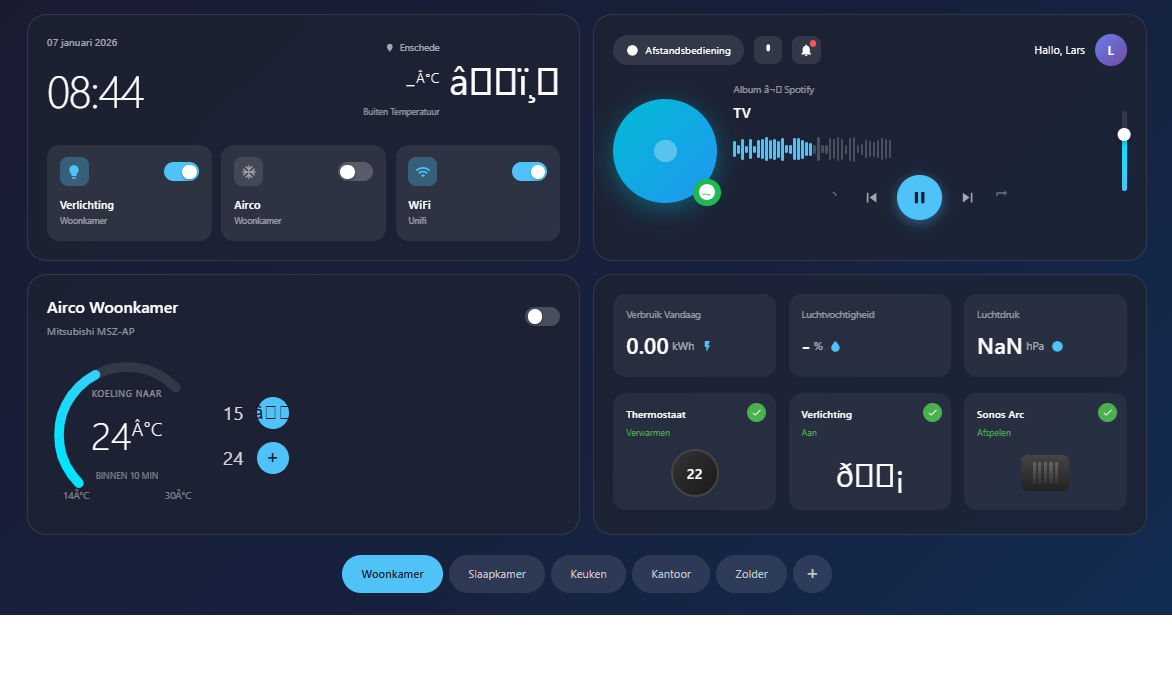
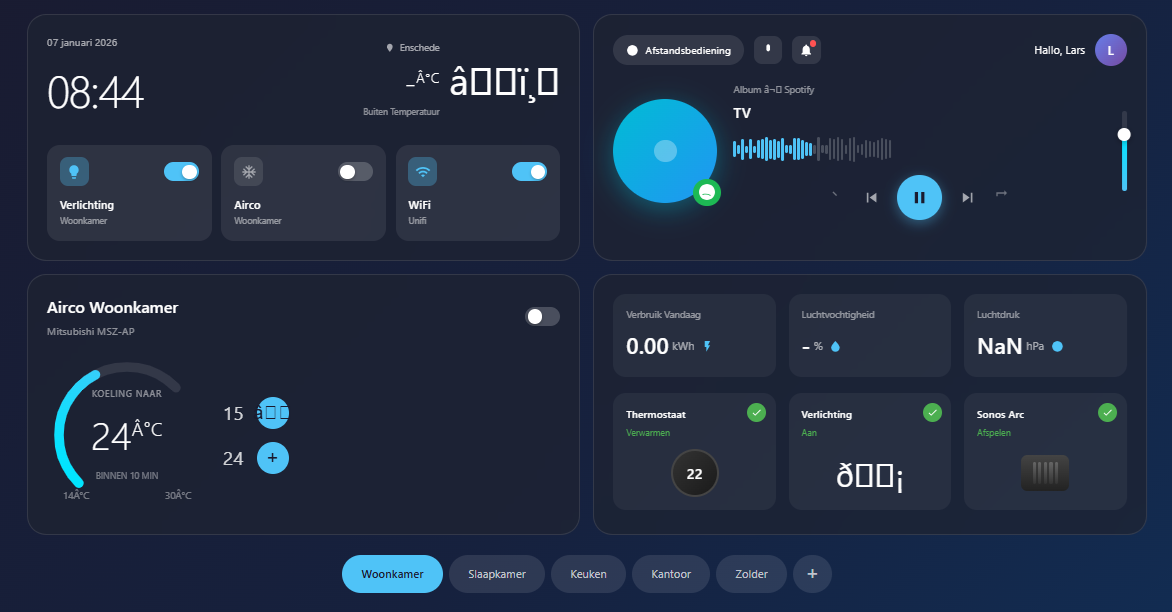
Verbeter tekstleesbaarheid: sterkere schaduwen en donkerdere achtergrond

diff --git a/dist/glassmorphism-dashboard.js b/dist/glassmorphism-dashboard.js
@@ -16,7 +16,7 @@
  * @license MIT
  */
 
-const CARD_VERSION = '1.0.1';
+const CARD_VERSION = '1.0.2';
 
 console.info(
   `%c GLASSMORPHISM-DASHBOARD %c v${CARD_VERSION} `,
@@ -818,7 +818,7 @@ class GlassmorphismDashboard extends HTMLElement {
         display: block;
         font-family: 'SF Pro Display', -apple-system, BlinkMacSystemFont, 'Segoe UI', Roboto, sans-serif;
         color: #fff;
-        --glass-bg: rgba(30, 35, 50, 0.75);
+        --glass-bg: rgba(20, 25, 40, 0.85);
         --glass-border: rgba(255, 255, 255, 0.1);
         --accent: #4FC3F7;
         --accent-glow: rgba(79, 195, 247, 0.4);
@@ -857,17 +857,17 @@ class GlassmorphismDashboard extends HTMLElement {
       
       .header-left .date-display {
         font-size: 13px;
-        color: rgba(255, 255, 255, 0.8);
+        color: rgba(255, 255, 255, 0.9);
         margin-bottom: 4px;
         text-transform: capitalize;
-        text-shadow: 0 1px 2px rgba(0, 0, 0, 0.3);
+        text-shadow: 0 2px 4px rgba(0, 0, 0, 0.7);
       }
       
       .header-left .time-display {
         font-size: 42px;
         font-weight: 200;
         letter-spacing: -1px;
-        text-shadow: 0 2px 4px rgba(0, 0, 0, 0.5);
+        text-shadow: 0 3px 6px rgba(0, 0, 0, 0.8);
       }
       
       .header-center {
@@ -878,7 +878,7 @@ class GlassmorphismDashboard extends HTMLElement {
         font-size: 28px;
         font-weight: 600;
         margin-bottom: 8px;
-        text-shadow: 0 2px 4px rgba(0, 0, 0, 0.5);
+        text-shadow: 0 3px 6px rgba(0, 0, 0, 0.8);
       }
       
       .room-stats {
@@ -892,11 +892,13 @@ class GlassmorphismDashboard extends HTMLElement {
         background: rgba(255, 255, 255, 0.1);
         border-radius: 12px;
         font-size: 12px;
+        text-shadow: 0 1px 2px rgba(0, 0, 0, 0.5);
       }
       
       .stat-pill.active {
         background: rgba(79, 195, 247, 0.3);
         color: var(--accent);
+        text-shadow: 0 1px 2px rgba(0, 0, 0, 0.5);
       }
       
       .header-right {
@@ -914,6 +916,7 @@ class GlassmorphismDashboard extends HTMLElement {
       .weather-temp {
         font-size: 28px;
         font-weight: 300;
+        text-shadow: 0 2px 4px rgba(0, 0, 0, 0.7);
       }
       
       .weather-icon {
@@ -967,12 +970,13 @@ class GlassmorphismDashboard extends HTMLElement {
       .stat-value {
         font-size: 22px;
         font-weight: 500;
+        text-shadow: 0 2px 4px rgba(0, 0, 0, 0.7);
       }
       
       .stat-label {
         font-size: 11px;
-        color: rgba(255, 255, 255, 0.7);
-        text-shadow: 0 1px 2px rgba(0, 0, 0, 0.3);
+        color: rgba(255, 255, 255, 0.8);
+        text-shadow: 0 2px 4px rgba(0, 0, 0, 0.7);
       }
       
       /* MAIN CONTENT */
@@ -1002,7 +1006,7 @@ class GlassmorphismDashboard extends HTMLElement {
         display: flex;
         align-items: center;
         gap: 8px;
-        text-shadow: 0 1px 2px rgba(0, 0, 0, 0.3);
+        text-shadow: 0 2px 4px rgba(0, 0, 0, 0.7);
       }
       
       .add-entity-btn {
@@ -1035,9 +1039,9 @@ class GlassmorphismDashboard extends HTMLElement {
         grid-column: 1 / -1;
         text-align: center;
         padding: 24px;
-        color: rgba(255, 255, 255, 0.6);
+        color: rgba(255, 255, 255, 0.7);
         font-size: 13px;
-        text-shadow: 0 1px 2px rgba(0, 0, 0, 0.3);
+        text-shadow: 0 2px 4px rgba(0, 0, 0, 0.7);
       }
       
       /* DEVICE CARDS */
@@ -1076,14 +1080,14 @@ class GlassmorphismDashboard extends HTMLElement {
         white-space: nowrap;
         overflow: hidden;
         text-overflow: ellipsis;
-        text-shadow: 0 1px 2px rgba(0, 0, 0, 0.3);
+        text-shadow: 0 2px 4px rgba(0, 0, 0, 0.7);
       }
       
       .device-state {
         font-size: 11px;
-        color: rgba(255, 255, 255, 0.7);
+        color: rgba(255, 255, 255, 0.8);
         margin-bottom: 10px;
-        text-shadow: 0 1px 2px rgba(0, 0, 0, 0.3);
+        text-shadow: 0 2px 4px rgba(0, 0, 0, 0.7);
       }
       
       .remove-btn {
